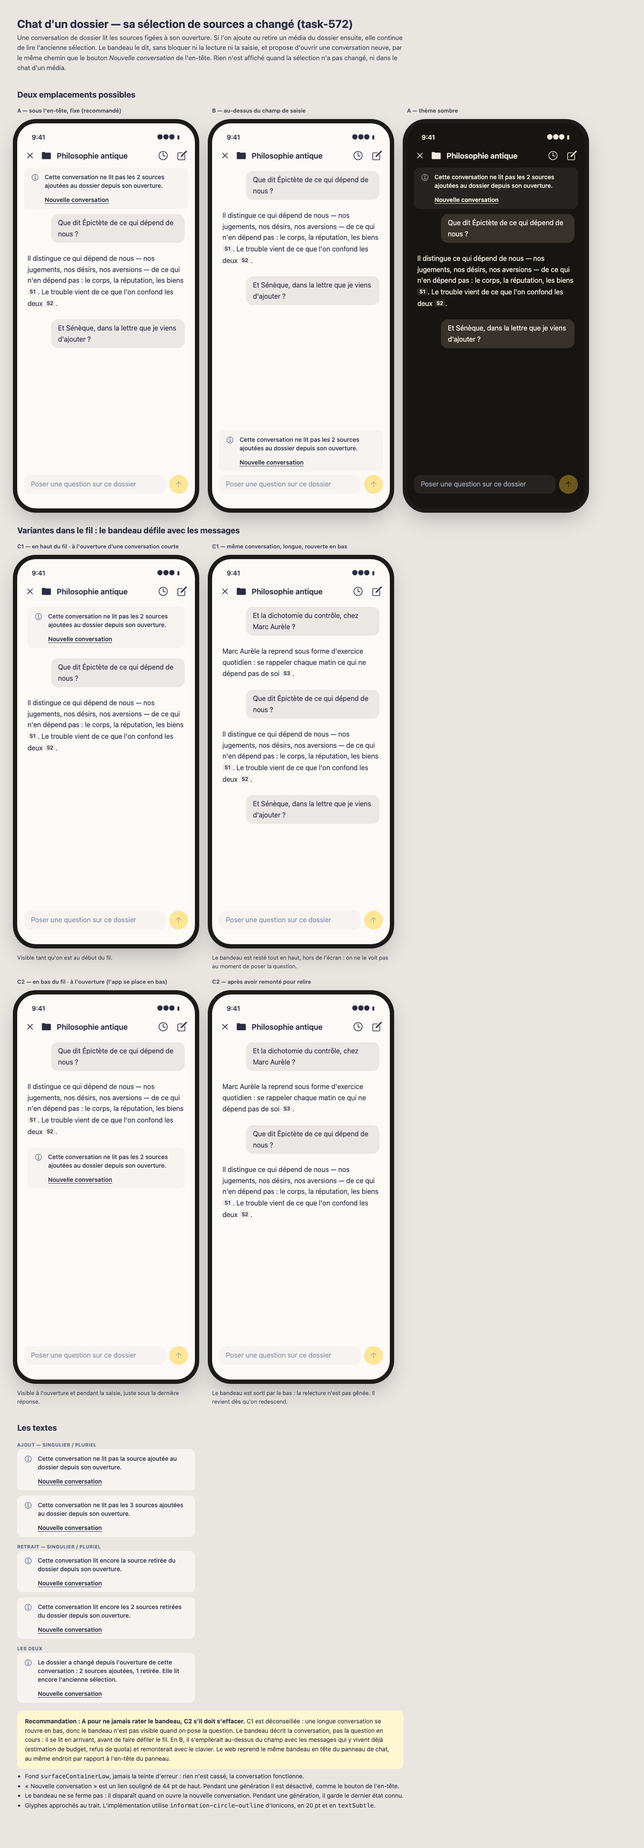
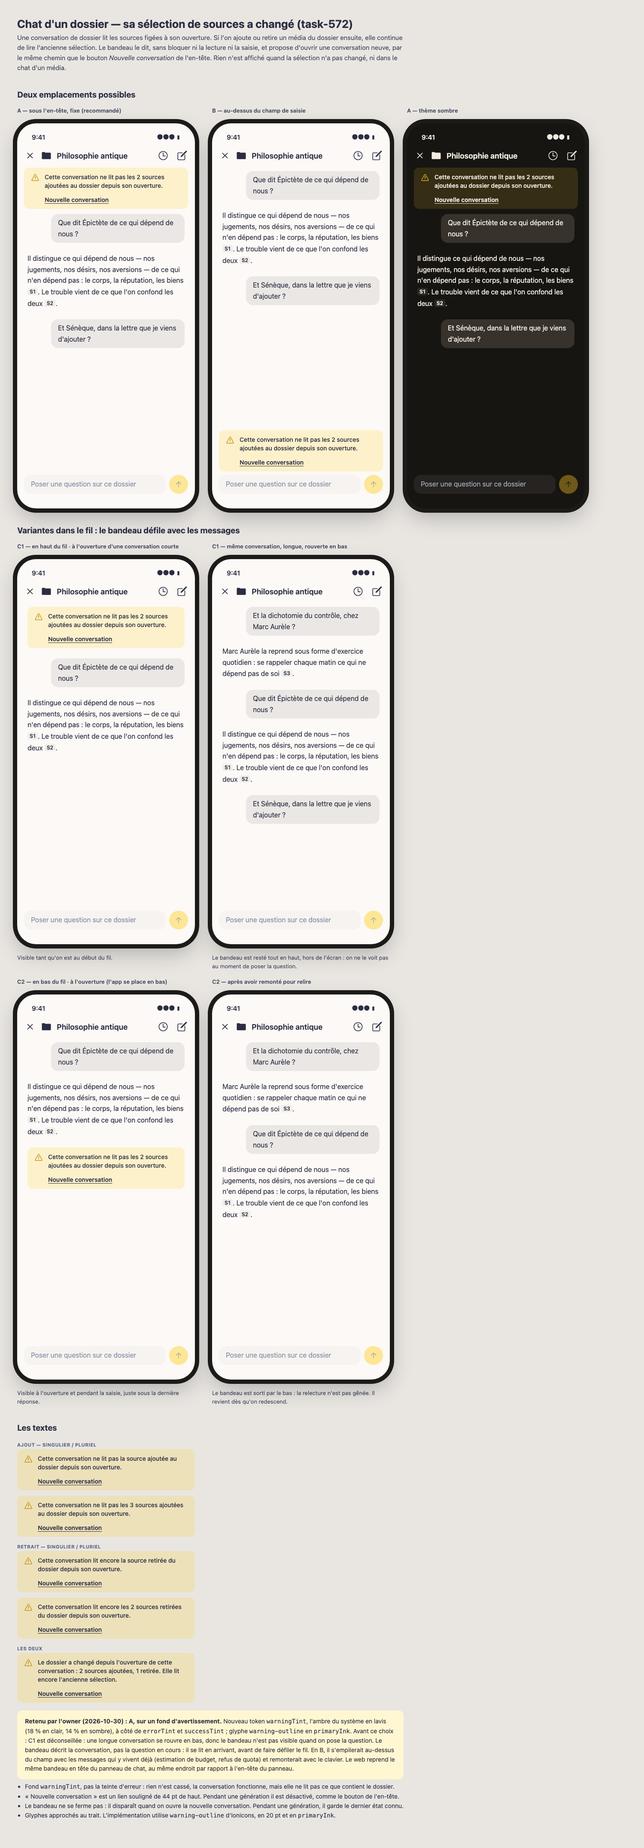
feat(chat): warn when a folder conversation no longer reads the folder as it is (task-572)
A banner under the conversation header says how many sources were added to
or removed from the folder since the conversation was opened, and offers a
new conversation by the header's own path. It reads the server's
source_drift, keeps the last value while a generation runs, and blocks
neither reading nor sending. Option A of the mockup, on a new warningTint
token (the system's amber as a wash) chosen by the owner; strings in the
eleven catalogues.

Web: done

diff --git a/mobile-design-mockups/chat_source_drift_banner/code.html b/mobile-design-mockups/chat_source_drift_banner/code.html
@@ -5,8 +5,8 @@
 <title>Chat d'un dossier — sources qui ont changé (task-572)</title>
 <style>
   /* Tokens: mobile/src/constants/theme.ts (light and dark palettes). */
-  .light { --bg:#fcf9f6; --surface:#ffffff; --low:#f7f3f0; --cont:#f1edea; --high:#ebe7e5; --text:#2b2d42; --muted:#8d99ae; --subtle:#5c6880; --primary:#ffcb05; --onprimary:#1c1b1a; --outlineV:#c8c7bd; }
-  .dark  { --bg:#171511; --surface:#211e19; --low:#262320; --cont:#2d2a25; --high:#37332c; --text:#f1ebe1; --muted:#9aa3b4; --subtle:#aeb6c4; --primary:#f0bf2a; --onprimary:#1c1b1a; --outlineV:#3d3932; }
+  .light { --bg:#fcf9f6; --surface:#ffffff; --low:#f7f3f0; --cont:#f1edea; --high:#ebe7e5; --text:#2b2d42; --muted:#8d99ae; --subtle:#5c6880; --primary:#ffcb05; --onprimary:#1c1b1a; --outlineV:#c8c7bd; --warn:rgba(255,203,5,0.18); --ink:#b88a00; }
+  .dark  { --bg:#171511; --surface:#211e19; --low:#262320; --cont:#2d2a25; --high:#37332c; --text:#f1ebe1; --muted:#9aa3b4; --subtle:#aeb6c4; --primary:#f0bf2a; --onprimary:#1c1b1a; --outlineV:#3d3932; --warn:rgba(240,191,42,0.14); --ink:#f0bf2a; }
   * { box-sizing:border-box; }
   body { margin:0; padding:40px; background:#e9e6e2; font-family:-apple-system,BlinkMacSystemFont,"SF Pro Text",Roboto,"Helvetica Neue",Arial,sans-serif; color:#2b2d42; }
   h1 { font-size:26px; margin:0 0 6px; }
@@ -31,10 +31,10 @@
   .send { width:44px; height:44px; border-radius:50%; background:var(--primary); display:flex; align-items:center; justify-content:center; opacity:.4; }
   .send svg { stroke:var(--onprimary); }
   /* The banner: one notice, neutral, never an error tint. */
-  .drift { display:flex; gap:12px; align-items:flex-start; background:var(--low); border-radius:12px; padding:12px 16px; }
+  .drift { display:flex; gap:12px; align-items:flex-start; background:var(--warn); border-radius:12px; padding:12px 16px; }
   .drift.top { margin:0 16px 4px; }
   .drift.bottom { margin:0 16px; }
-  .drift svg { flex:none; margin-top:1px; stroke:var(--subtle); }
+  .drift svg { flex:none; margin-top:1px; stroke:var(--ink); }
   .drift .body { flex:1; display:flex; flex-direction:column; gap:4px; }
   .drift .msg { font-size:14px; font-weight:500; line-height:20px; color:var(--text); }
   .drift .act { align-self:flex-start; min-height:44px; display:flex; align-items:center; margin:-4px 0 -12px; font-size:14px; font-weight:600; color:var(--text); text-decoration:underline; text-underline-offset:3px; }
@@ -52,7 +52,7 @@
   <symbol id="folder" viewBox="0 0 512 512"><path d="M440 432H72a40 40 0 01-40-40V120a40 40 0 0140-40h75.89a40 40 0 0122.19 6.72l27.84 18.56a40 40 0 0022.19 6.72H440a40 40 0 0140 40v240a40 40 0 01-40 40z" fill="currentColor" stroke="none"/></symbol>
   <symbol id="time" viewBox="0 0 512 512"><path d="M256 64C150 64 64 150 64 256s86 192 192 192 192-86 192-192S362 64 256 64z"/><path d="M256 128v144h96"/></symbol>
   <symbol id="create" viewBox="0 0 512 512"><path d="M384 224v184a40 40 0 01-40 40H104a40 40 0 01-40-40V168a40 40 0 0140-40h167.48"/><path d="M459.94 53.25a16.06 16.06 0 00-23.22-.56L424.35 65a8 8 0 000 11.31l11.34 11.32a8 8 0 0011.34 0l12.06-12c6.1-6.09 6.67-16.01.85-22.38zM399.34 90L218.82 270.2a9 9 0 00-2.31 3.93L208.16 299a3.91 3.91 0 004.86 4.86l24.85-8.35a9 9 0 003.93-2.31L422 112.66a9 9 0 000-12.66l-9.95-10a9 9 0 00-12.71 0z"/></symbol>
-  <symbol id="info" viewBox="0 0 512 512"><path d="M248 64C146.39 64 64 146.39 64 248s82.39 184 184 184 184-82.39 184-184S349.61 64 248 64z"/><path d="M220 220h32v116M208 340h88"/><path d="M248 130a26 26 0 1026 26 26 26 0 00-26-26z" fill="currentColor" stroke="none"/></symbol>
+  <symbol id="info" viewBox="0 0 512 512"><path d="M85.57 446.25h340.86a32 32 0 0028.17-47.17L284.18 82.58c-12.09-22.44-44.27-22.44-56.36 0L57.4 399.08a32 32 0 0028.17 47.17z"/><path d="M250.26 195.39l5.74 122 5.73-121.95a5.74 5.74 0 00-5.79-6h0a5.74 5.74 0 00-5.68 5.95z"/><path d="M256 397.25a20 20 0 1120-20 20 20 0 01-20 20z" fill="#b88a00" stroke="none"/></symbol>
   <symbol id="up" viewBox="0 0 512 512"><path d="M112 244l144-144 144 144M256 120v292"/></symbol>
 </svg>
 
@@ -244,12 +244,12 @@
   </div>
 </div>
 
-<div class="rec"><strong>Recommandation : A pour ne jamais rater le bandeau, C2 s'il doit s'effacer.</strong> C1 est déconseillée : une longue conversation se rouvre en bas, donc le bandeau n'est pas visible quand on pose la question. Le bandeau décrit la conversation, pas la question en cours : il se lit en arrivant, avant de faire défiler le fil. En B, il s'empilerait au-dessus du champ avec les messages qui y vivent déjà (estimation de budget, refus de quota) et remonterait avec le clavier. Le web reprend le même bandeau en tête du panneau de chat, au même endroit par rapport à l'en-tête du panneau.</div>
+<div class="rec"><strong>Retenu par l'owner (2026-10-30) : A, sur un fond d'avertissement.</strong> Nouveau token <code>warningTint</code>, l'ambre du système en lavis (18 % en clair, 14 % en sombre), à côté de <code>errorTint</code> et <code>successTint</code> ; glyphe <code>warning-outline</code> en <code>primaryInk</code>. Avant ce choix : C1 est déconseillée : une longue conversation se rouvre en bas, donc le bandeau n'est pas visible quand on pose la question. Le bandeau décrit la conversation, pas la question en cours : il se lit en arrivant, avant de faire défiler le fil. En B, il s'empilerait au-dessus du champ avec les messages qui y vivent déjà (estimation de budget, refus de quota) et remonterait avec le clavier. Le web reprend le même bandeau en tête du panneau de chat, au même endroit par rapport à l'en-tête du panneau.</div>
 <ul>
-  <li>Fond <code>surfaceContainerLow</code>, jamais la teinte d'erreur : rien n'est cassé, la conversation fonctionne.</li>
+  <li>Fond <code>warningTint</code>, pas la teinte d'erreur : rien n'est cassé, la conversation fonctionne, mais elle ne lit pas ce que contient le dossier.</li>
   <li>« Nouvelle conversation » est un lien souligné de 44 pt de haut. Pendant une génération il est désactivé, comme le bouton de l'en-tête.</li>
   <li>Le bandeau ne se ferme pas : il disparaît quand on ouvre la nouvelle conversation. Pendant une génération, il garde le dernier état connu.</li>
-  <li>Glyphes approchés au trait. L'implémentation utilise <code>information-circle-outline</code> d'Ionicons, en 20 pt et en <code>textSubtle</code>.</li>
+  <li>Glyphes approchés au trait. L'implémentation utilise <code>warning-outline</code> d'Ionicons, en 20 pt et en <code>primaryInk</code>.</li>
 </ul>
 </body>
 </html>

diff --git a/web/src/styles.css b/web/src/styles.css
@@ -7,7 +7,7 @@
   --background: #fcf9f6; --surface: #ffffff; --surface-container: #f1edea; --surface-container-high: #ebe7e5; --surface-container-low: #f7f3f0;
   --text-main: #2b2d42; --text-muted: #8d99ae; --text-subtle: #5c6880; --outline: #78776f; --outline-variant: #c8c7bd;
   --glass: rgba(252, 249, 246, 0.9);
-  --error: #ba1a1a; --on-error: #ffffff; --error-container: #ffdad6; --error-tint: rgba(186, 26, 26, 0.1); --success: #2e7d4f; --success-tint: rgba(46, 125, 79, 0.11);
+  --error: #ba1a1a; --on-error: #ffffff; --error-container: #ffdad6; --error-tint: rgba(186, 26, 26, 0.1); --success: #2e7d4f; --success-tint: rgba(46, 125, 79, 0.11); --warning-tint: rgba(255, 203, 5, 0.18);
   --highlight: #fff0b3; --short-video-container: #d6e4fd; --audio-container: #d4e9d2; --image-post-container: #f3dcf2; --article-container: #c1ebec;
   /* The AI pane's formats (task-534, mobile-design-mockups/ai_tab_notebooklm/): a tint per
      format and its ink, the amber of the sparkles (the light primary is a fill only, 1.24:1)
@@ -26,7 +26,7 @@
   --background: #171511; --surface: #211e19; --surface-container: #2d2a25; --surface-container-high: #37332c; --surface-container-low: #262320;
   --text-main: #f1ebe1; --text-muted: #9aa3b4; --text-subtle: #c6cdd9; --outline: #a8a69a; --outline-variant: #3d3932;
   --glass: rgba(33, 30, 25, 0.92);
-  --error: #ffb4ab; --on-error: #690005; --error-container: #93000a; --error-tint: rgba(255, 180, 171, 0.08); --success: #7fd3a1; --success-tint: rgba(127, 211, 161, 0.12);
+  --error: #ffb4ab; --on-error: #690005; --error-container: #93000a; --error-tint: rgba(255, 180, 171, 0.08); --success: #7fd3a1; --success-tint: rgba(127, 211, 161, 0.12); --warning-tint: rgba(240, 191, 42, 0.14);
   --highlight: #5c4a12; --short-video-container: #1a4975; --audio-container: #275029; --image-post-container: #603962; --article-container: #0b4f51;
   --primary-ink: #f0bf2a; --sheen: rgba(240, 191, 42, 0.28);
   --artifact-summary-tint: #3f331a; --artifact-summary-ink: #e2b55a; --artifact-notes-tint: #28392b; --artifact-notes-ink: #93c89a;
@@ -240,6 +240,7 @@ h1, h2, h3 { font-family: var(--font-head); margin: 0; }
 .pane-title { font-size: 15px; font-weight: 600; line-height: 1.3; min-width: 0; display: flex; flex-direction: column; justify-content: center; }
 .pane-body { flex: 1; min-height: 0; overflow-y: auto; overscroll-behavior: contain; padding: 16px 20px 24px; }
 .pane-foot { flex: none; padding: 8px 12px 12px; }
+.pane-notice { flex: none; padding: 0 12px 4px; }
 .pane.rail { align-items: center; padding: 8px 0; gap: 10px; }
 .rail-ico { color: var(--text-subtle); }
 .rail-label { writing-mode: vertical-rl; font-size: 13px; font-weight: 600; color: var(--text-subtle); }
@@ -507,6 +508,11 @@ mark { background: #fff0b3; color: #1c1b1a; border-radius: 2px; padding: 0 1px; 
 .thread .status { display: flex; align-items: center; gap: 6px; color: var(--text-subtle); }
 .thread .status.err { color: var(--error); }
 .chat-refusal { align-items: center; margin-bottom: 8px; }
+/* A folder conversation that no longer reads the folder as it is (task-572). */
+.chat-drift { display: flex; gap: 12px; align-items: flex-start; padding: 12px 16px; border-radius: var(--r-lg); background: var(--warning-tint); color: var(--text-main); font-size: 14px; font-weight: 500; line-height: 20px; }
+.chat-drift > .ico { flex: none; color: var(--primary-ink); margin-top: 1px; }
+.chat-drift-action { display: block; margin-top: 4px; padding: 0; border: 0; background: none; color: inherit; font: inherit; font-weight: 600; text-decoration: underline; text-underline-offset: 3px; cursor: pointer; }
+.chat-drift-action:disabled { opacity: 0.4; cursor: default; }
 .composer { display: flex; align-items: flex-end; gap: 8px; padding: 6px 6px 6px 14px; border-radius: var(--r-xl); background: var(--surface-container); }
 .composer:focus-within { box-shadow: 0 0 0 2px var(--primary); }
 .composer textarea { flex: 1; min-width: 0; max-height: 168px; padding: 7px 0; border: 0; outline: 0; resize: none; background: none; font-size: 15px; line-height: 1.5; color: var(--text-main); overflow-y: auto; }

diff --git a/web/src/components/icons.generated.ts b/web/src/components/icons.generated.ts
@@ -69,4 +69,5 @@ export const ICON_PATHS = {
   "text-outline": "M147 80Q152 79 156 80Q163 82 166 88Q167 90 227.5 251.0Q288 412 288 416Q288 426 279 430Q273 433 267 430Q260 428 257 421Q255 417 237 368L219 320H152H85L65 372Q46 424 43 427Q37 432 32.0 432.0Q27 432 22 427Q16 423 16 415Q16 412 77.0 249.5Q138 87 141.0 84.0Q144 81 147 80ZM206 287Q206 286 179 214L151 143V144Q97 282 97 287Q97 288 152 288Q174 288 190.0 287.5Q206 287 206 287ZM384 177Q390 176 400.0 176.0Q410 176 415 177Q447 181 469 203Q486 220 493 248Q495 255 495.5 336.0Q496 417 495 420Q494 426 487 430Q478 434 470 427Q464 423 464 410V402L458 407Q430 432 382 432Q361 432 346 425Q314 411 306 377Q301 358 306 341Q315 309 350 294Q375 283 448 280H464V269Q462 245 451 230Q433 208 401 208Q384 208 370 215Q362 219 354.5 226.5Q347 234 342.5 242.0Q338 250 334 253Q327 258 319 253Q309 248 310 238Q311 230 321 215Q345 183 384 177ZM464 319Q464 319 464 319V312H461Q434 311 393 316Q372 319 360 325Q336 336 336 359Q336 377 348 389Q356 396 367 399Q384 404 408 397Q454 385 462 335Q463 326 464 319Z",
   "time-outline": "M241 49Q256 48 269 49Q351 54 407 113Q452 161 462 228Q464 238 464.0 256.0Q464 274 462 284Q454 339 421 382Q405 405 382 421Q339 454 284 462Q274 464 256.0 464.0Q238 464 228 462Q173 454 130 421Q107 405 91 382Q58 339 50 284Q48 274 48.0 256.0Q48 238 50 228Q58 174 91 130Q107 108 130 91Q181 53 241 49ZM284 82Q278 81 261.5 80.5Q245 80 240 81Q212 84 193 92Q149 109 119.5 145.0Q90 181 82 229Q81 238 81.0 256.0Q81 274 82 283Q89 326 114.0 360.0Q139 394 178 414Q214 432 256.0 432.0Q298 432 334 414Q372 394 397.0 360.5Q422 327 430 284Q431 275 431.0 256.5Q431 238 430 229Q420 169 378 129Q338 92 284 82ZM252 113Q252 113 252 113Q258 111 263.5 114.0Q269 117 271 124Q272 127 272 191Q272 191 272 256H314Q355 256 359 258Q372 264 367 278Q364 286 355 288Q350 288 301 288Q301 288 252 288L248 286Q244 283 242 280Q242 280 240 277V202Q240 127 241 124Q243 115 252 113Z",
   "trash-outline": "M204 34Q208 33 257 33H307L313 36Q328 43 334 59Q336 64 336 80V96H386Q436 96 439 98Q444 101 447 106Q451 115 443 123Q439 128 425 128H415L405 283Q396 437 394 444Q388 469 363 478L356 480H256H156L149 478Q119 467 116 433Q115 424 106 276L97 128H87Q77 128 75 127Q68 125 65 118Q63 112 66.0 105.5Q69 99 75 97Q76 96 126 96H176V80Q176 64 178 59Q185 40 204 34ZM302 67 300 64H257Q215 64 213 65Q208 67 208 83V96H256H304V83Q304 69 302 67ZM383 132V128H256H129V133Q130 138 139 286Q146 403 147.5 421.5Q149 440 153 443Q154 445 157.5 446.5Q161 448 256.0 448.0Q351 448 355 446Q362 443 364 432Q364 425 373.0 280.5Q382 136 383 132ZM177 162Q179 161 184.0 160.5Q189 160 191 162Q197 165 199 170Q200 172 204.0 285.0Q208 398 208 402Q206 416 192 416Q180 416 177 404Q176 401 172.0 287.0Q168 173 169 170Q172 165 177 162ZM248 163Q253 159 259.5 160.5Q266 162 270 168L272 171V288V405L270 408Q265 416 256.0 416.0Q247 416 242 408L240 405V288V171L242 168Q244 165 248 163ZM320 162Q320 162 320 162Q323 160 329 161Q339 161 342 170Q342 170 344 174L340 288Q336 401 335 404Q333 410 328 414Q321 418 313.0 414.5Q305 411 304 402Q304 398 308.0 285.0Q312 172 313 170Q315 165 320 162Z",
+  "warning-outline": "M249 50Q282 46 298 75Q306 88 388.5 242.0Q471 396 472 399Q476 411 473 424Q467 452 440 460L434 462H256H78L72 460Q45 452 39 424Q36 411 40 399Q41 396 123.5 242.0Q206 88 214 75Q218 68 223 64Q234 52 249 50ZM257 82Q250 82 245 86Q244 88 161.5 240.5Q79 393 72 406Q69 413 71.0 420.0Q73 427 80 429Q82 430 256.0 430.0Q430 430 432 429Q438 427 440.5 421.0Q443 415 442 410Q441 408 359.0 255.5Q277 103 271 93Q268 87 265.0 84.5Q262 82 257 82ZM252 174Q259 173 267 177Q278 182 277 198Q277 209 274.5 264.5Q272 320 271 322Q270 327 264.5 330.5Q259 334 253 333Q245 332 242 325Q240 321 237 254Q234 195 235 191Q237 177 252 174ZM248 359Q248 359 248 359Q251 358 256 358Q264 358 270.0 363.5Q276 369 276 377Q276 384 271 390Q266 397 256.0 397.0Q246 397 241 390Q236 384 236 377Q236 365 248 359Z",
 } as const;

diff --git a/packages/core/src/i18n/ar.ts b/packages/core/src/i18n/ar.ts
@@ -715,6 +715,18 @@ export const ar: Catalog = {
   "common.itemCount.two": "عنصران",
   "common.itemCount.few": "{count} عناصر",
   "common.itemCount.many": "{count} عنصرًا",
+  "chat.drift.added.two": "هذه المحادثة لا تقرأ المصدرين اللذين أُضيفا إلى المجلد منذ بدايتها.",
+  "chat.drift.added.few": "هذه المحادثة لا تقرأ {count} مصادر أُضيفت إلى المجلد منذ بدايتها.",
+  "chat.drift.added.many": "هذه المحادثة لا تقرأ {count} مصدرًا أُضيفت إلى المجلد منذ بدايتها.",
+  "chat.drift.removed.two": "هذه المحادثة لا تزال تقرأ المصدرين اللذين أُزيلا من المجلد منذ بدايتها.",
+  "chat.drift.removed.few": "هذه المحادثة لا تزال تقرأ {count} مصادر أُزيلت من المجلد منذ بدايتها.",
+  "chat.drift.removed.many": "هذه المحادثة لا تزال تقرأ {count} مصدرًا أُزيلت من المجلد منذ بدايتها.",
+  "chat.drift.addedCount.two": "أُضيف مصدران",
+  "chat.drift.addedCount.few": "أُضيفت {count} مصادر",
+  "chat.drift.addedCount.many": "أُضيف {count} مصدرًا",
+  "chat.drift.removedCount.two": "أُزيل اثنان",
+  "chat.drift.removedCount.few": "أُزيلت {count}",
+  "chat.drift.removedCount.many": "أُزيل {count}",
   "digest.mediaCount.zero": "لا وسائط",
   "digest.mediaCount.two": "وسيطان",
   "digest.mediaCount.few": "{count} وسائط",
@@ -805,6 +817,15 @@ export const ar: Catalog = {
   "chat.conversation.discardTitle": "هل تريد تجاهل المسودة؟",
   "chat.conversation.discardBody": "سيؤدي بدء محادثة جديدة إلى تجاهل السؤال الذي لم ترسله بعد.",
   "chat.conversation.discardAction": "تجاهل وابدأ",
+  "chat.drift.added.one": "هذه المحادثة لا تقرأ المصدر الذي أُضيف إلى المجلد منذ بدايتها.",
+  "chat.drift.added.other": "هذه المحادثة لا تقرأ {count} مصدر أُضيفت إلى المجلد منذ بدايتها.",
+  "chat.drift.removed.one": "هذه المحادثة لا تزال تقرأ المصدر الذي أُزيل من المجلد منذ بدايتها.",
+  "chat.drift.removed.other": "هذه المحادثة لا تزال تقرأ {count} مصدر أُزيلت من المجلد منذ بدايتها.",
+  "chat.drift.both": "تغيّر المجلد منذ بداية هذه المحادثة: {added}، {removed}. لا تزال تقرأ الاختيار السابق.",
+  "chat.drift.addedCount.one": "أُضيف مصدر واحد",
+  "chat.drift.addedCount.other": "أُضيف {count} مصدر",
+  "chat.drift.removedCount.one": "أُزيل واحد",
+  "chat.drift.removedCount.other": "أُزيل {count}",
   "chat.a11y.answerInterrupted": "تمت مقاطعة الإجابة.",
   "chat.composer.hint": "مفتاح الإدخال يضيف سطرًا؛ زر الإرسال يرسل.",
   "chat.composer.sendA11y": "إرسال السؤال",

diff --git a/mobile/src/components/chat/ChatConversationModal.tsx b/mobile/src/components/chat/ChatConversationModal.tsx
@@ -67,6 +67,11 @@ export interface ChatConversationModalProps {
   onCancelPending: () => void;
   onRetry: (question: string) => void;
   refusal: ChatRefusal | null;
+  /**
+   * The folder changed since this conversation was opened, worded
+   * (`describeSourceDrift`, task-572); null hides the banner.
+   */
+  sourceDrift: string | null;
   onRefusalAction: (action: NonNullable<ChatRefusal["action"]>) => void;
   onNewConversation: () => void;
   sourceContent: React.ReactNode;
@@ -322,6 +327,30 @@ export function ChatConversationModal(
           </Pressable>
         </View>
 
+        {!props.historyOpen && props.sourceDrift ? (
+          <View style={styles.drift} testID="chat-conversation-source-drift">
+            <Ionicons name="warning-outline" size={20} color={Colors.primaryInk}
+              accessible={false} importantForAccessibility="no" />
+            <View style={styles.driftBody}>
+              <Text style={styles.driftText}>{props.sourceDrift}</Text>
+              <Pressable
+                style={({ pressed }) => [
+                  styles.driftAction,
+                  pressed && styles.pressed,
+                  (props.generating || props.sending) && styles.disabled,
+                ]}
+                onPress={startNew}
+                disabled={props.generating || props.sending}
+                accessibilityRole="button"
+                accessibilityState={{ disabled: props.generating || props.sending }}
+                accessibilityLabel={t("chat.conversation.newConversation")}
+              >
+                <Text style={styles.driftActionLabel}>{t("chat.conversation.newConversation")}</Text>
+              </Pressable>
+            </View>
+          </View>
+        ) : null}
+
         <View style={styles.scrollArea}>
         <ScrollView
           key={props.historyOpen ? "history" : `conversation-${props.resetKey}`}
@@ -526,4 +555,31 @@ const makeStyles = ({ colors: Colors }: Theme) =>
       backgroundColor: Colors.primary,
     },
     refusalActionLabel: { ...Typography.label, color: Colors.onPrimary },
+    // Fixed under the header, never in the thread: it describes the
+    // conversation, so it is read on arrival (task-572 mockup, option A).
+    drift: {
+      flexDirection: "row",
+      alignItems: "flex-start",
+      gap: Spacing.sm + Spacing.xs,
+      marginHorizontal: Spacing.md,
+      marginBottom: Spacing.xs,
+      paddingHorizontal: Spacing.md,
+      paddingTop: Spacing.sm + Spacing.xs,
+      backgroundColor: Colors.warningTint,
+      borderRadius: BorderRadius.lg,
+    },
+    driftBody: { flex: 1 },
+    driftText: { ...Typography.label, lineHeight: 20, color: Colors.textMain },
+    driftAction: {
+      alignSelf: "flex-start",
+      minHeight: TouchTarget.minimum,
+      justifyContent: "center",
+      borderRadius: BorderRadius.sm,
+    },
+    driftActionLabel: {
+      ...Typography.label,
+      fontWeight: "600",
+      color: Colors.textMain,
+      textDecorationLine: "underline",
+    },
   });

diff --git a/packages/core/src/i18n/hi.ts b/packages/core/src/i18n/hi.ts
@@ -758,6 +758,15 @@ export const hi: Catalog = {
   "chat.conversation.discardTitle": "ड्राफ़्ट हटाएँ?",
   "chat.conversation.discardBody": "नई बातचीत शुरू करने पर वह सवाल हट जाएगा जिसे आपने अभी भेजा नहीं है।",
   "chat.conversation.discardAction": "हटाएँ और शुरू करें",
+  "chat.drift.added.one": "यह बातचीत शुरू होने के बाद फ़ोल्डर में जोड़ा गया स्रोत नहीं पढ़ती।",
+  "chat.drift.added.other": "यह बातचीत शुरू होने के बाद फ़ोल्डर में जोड़े गए {count} स्रोत नहीं पढ़ती।",
+  "chat.drift.removed.one": "यह बातचीत शुरू होने के बाद फ़ोल्डर से हटाया गया स्रोत अब भी पढ़ती है।",
+  "chat.drift.removed.other": "यह बातचीत शुरू होने के बाद फ़ोल्डर से हटाए गए {count} स्रोत अब भी पढ़ती है।",
+  "chat.drift.both": "इस बातचीत के शुरू होने के बाद फ़ोल्डर बदल गया है: {added}, {removed}। यह अब भी पिछला चयन पढ़ती है।",
+  "chat.drift.addedCount.one": "{count} स्रोत जोड़ा गया",
+  "chat.drift.addedCount.other": "{count} स्रोत जोड़े गए",
+  "chat.drift.removedCount.one": "{count} हटाया गया",
+  "chat.drift.removedCount.other": "{count} हटाए गए",
   "chat.a11y.answerInterrupted": "जवाब बीच में रुक गया।",
   "chat.composer.hint": "एंटर नई पंक्ति जोड़ता है; भेजें बटन भेजता है।",
   "chat.composer.sendA11y": "सवाल भेजें",

diff --git a/packages/core/src/chat/sourceDrift.ts b/packages/core/src/chat/sourceDrift.ts
@@ -1,0 +1,41 @@
+/**
+ * The banner of a folder conversation whose sources changed since it was opened
+ * (task-572).
+ *
+ * The conversation keeps reading the sources frozen at its opening; the server
+ * measures how far the folder has moved from them (`source_drift`) and the app
+ * says so, offering a new conversation. Shared by the mobile and web apps.
+ */
+
+import { t, tCount } from "../i18n/runtime";
+import type { ChatConversationDetail } from "../types/chat";
+
+/**
+ * A freshly read detail, carrying over the drift of the previous read when the
+ * server did not measure it this time (a generation in flight), so the banner
+ * does not disappear while an answer is written.
+ */
+export function withKnownSourceDrift(
+  previous: ChatConversationDetail | null | undefined,
+  next: ChatConversationDetail,
+): ChatConversationDetail {
+  if (next.source_drift != null) return next;
+  if (previous?.conversation_id !== next.conversation_id || previous.source_drift == null) return next;
+  return { ...next, source_drift: previous.source_drift };
+}
+
+/** The banner's sentence, or null when the conversation reads the folder as it is. */
+export function describeSourceDrift(conversation: ChatConversationDetail | null | undefined): string | null {
+  const drift = conversation?.scope === "folder" ? conversation.source_drift : null;
+  if (!drift) return null;
+  const { added, removed } = drift;
+  if (added > 0 && removed > 0) {
+    return t("chat.drift.both", {
+      added: tCount("chat.drift.addedCount", added),
+      removed: tCount("chat.drift.removedCount", removed),
+    });
+  }
+  if (added > 0) return tCount("chat.drift.added", added);
+  if (removed > 0) return tCount("chat.drift.removed", removed);
+  return null;
+}

diff --git a/packages/core/src/i18n/ja.ts b/packages/core/src/i18n/ja.ts
@@ -732,6 +732,15 @@ export const ja: Catalog = {
   "chat.conversation.discardTitle": "下書きを破棄しますか？",
   "chat.conversation.discardBody": "新しい会話を始めると、まだ送信していない質問が破棄されます。",
   "chat.conversation.discardAction": "破棄して開始",
+  "chat.drift.added.one": "この会話は、開始後にフォルダに追加されたソースを読み込んでいません。",
+  "chat.drift.added.other": "この会話は、開始後にフォルダに追加された {count} 件のソースを読み込んでいません。",
+  "chat.drift.removed.one": "この会話は、開始後にフォルダから削除されたソースをまだ読み込んでいます。",
+  "chat.drift.removed.other": "この会話は、開始後にフォルダから削除された {count} 件のソースをまだ読み込んでいます。",
+  "chat.drift.both": "この会話の開始後にフォルダが変更されました（{added}、{removed}）。以前の選択をまだ読み込んでいます。",
+  "chat.drift.addedCount.one": "{count} 件追加",
+  "chat.drift.addedCount.other": "{count} 件追加",
+  "chat.drift.removedCount.one": "{count} 件削除",
+  "chat.drift.removedCount.other": "{count} 件削除",
   "chat.a11y.answerInterrupted": "回答が中断されました。",
   "chat.composer.hint": "改行キーで改行し、送信ボタンで送信します。",
   "chat.composer.sendA11y": "質問を送信",

diff --git a/web/src/components/chat/useChatPane.tsx b/web/src/components/chat/useChatPane.tsx
@@ -1,4 +1,5 @@
 import { describeChatRefusal } from "@media-summarizer/core/chat/refusal";
+import { describeSourceDrift } from "@media-summarizer/core/chat/sourceDrift";
 import { formatDate } from "@media-summarizer/core/i18n/runtime";
 import type { ChatConversationSummary, ChatMessage, ChatScope, ChatSource } from "@media-summarizer/core/types/chat";
 import { useEffect, useMemo, useRef, useState, type KeyboardEvent, type ReactNode } from "react";
@@ -51,6 +52,7 @@ export function useChatPane({
   const generating = state.generation !== null;
   const sending = state.phase === "sending";
   const refusal = state.error ? describeChatRefusal(state.error, scope) : null;
+  const sourceDrift = describeSourceDrift(state.conversation);
 
   const submit = async () => {
     const question = draft;
@@ -117,6 +119,18 @@ export function useChatPane({
         </button>
       </>
     ),
+    notice:
+      !historyOpen && sourceDrift ? (
+        <div className="chat-drift" role="status">
+          <Icon name="warning-outline" size={18} />
+          <div className="grow">
+            {sourceDrift}
+            <button type="button" className="chat-drift-action" onClick={startNew} disabled={generating || sending}>
+              {t("chat.conversation.newConversation")}
+            </button>
+          </div>
+        </div>
+      ) : null,
     body: historyOpen ? (
       <History
         scope={scope}

diff --git a/packages/core/src/i18n/de.ts b/packages/core/src/i18n/de.ts
@@ -867,6 +867,15 @@ export const de: Catalog = {
   "chat.conversation.discardTitle": "Entwurf verwerfen?",
   "chat.conversation.discardBody": "Eine neue Unterhaltung verwirft die Frage, die du noch nicht gesendet hast.",
   "chat.conversation.discardAction": "Verwerfen und beginnen",
+  "chat.drift.added.one": "Diese Unterhaltung liest die Quelle nicht, die seit ihrem Beginn zum Ordner hinzugefügt wurde.",
+  "chat.drift.added.other": "Diese Unterhaltung liest die {count} Quellen nicht, die seit ihrem Beginn zum Ordner hinzugefügt wurden.",
+  "chat.drift.removed.one": "Diese Unterhaltung liest noch die Quelle, die seit ihrem Beginn aus dem Ordner entfernt wurde.",
+  "chat.drift.removed.other": "Diese Unterhaltung liest noch die {count} Quellen, die seit ihrem Beginn aus dem Ordner entfernt wurden.",
+  "chat.drift.both": "Der Ordner hat sich seit Beginn dieser Unterhaltung geändert: {added}, {removed}. Sie liest noch die frühere Auswahl.",
+  "chat.drift.addedCount.one": "{count} Quelle hinzugefügt",
+  "chat.drift.addedCount.other": "{count} Quellen hinzugefügt",
+  "chat.drift.removedCount.one": "{count} entfernt",
+  "chat.drift.removedCount.other": "{count} entfernt",
   "chat.a11y.answerInterrupted": "Die Antwort wurde unterbrochen.",
   "chat.composer.hint": "Eingabe fügt eine Zeile hinzu; die Senden-Taste sendet.",
   "chat.composer.sendA11y": "Frage senden",

diff --git a/web/src/chat/useChat.ts b/web/src/chat/useChat.ts
@@ -6,6 +6,7 @@ import type {
   ChatStreamEvent,
 } from "@media-summarizer/core/types/chat";
 import { useCallback, useEffect, useRef, useState } from "react";
+import { withKnownSourceDrift } from "@media-summarizer/core/chat/sourceDrift";
 import { chatClient, type ChatStreamOpening } from "./chatClient";
 
 /**
@@ -127,14 +128,14 @@ export function useChat(scope: ChatScope, scopeId: string, sourceReady: boolean)
     const active = detail.active_generation ?? null;
     if (!active) {
       disconnect();
-      update({ conversation: detail, generation: null, streamingText: "", lastSeq: -1, phase: "idle", error: null });
+      update({ conversation: withKnownSourceDrift(latest.conversation, detail), generation: null, streamingText: "", lastSeq: -1, phase: "idle", error: null });
       return;
     }
     // Fragments may have come in while the read was pending: keep them.
     const same = latest.generation?.attempt_id === active.attempt_id && latest.generation?.turn_id === active.turn_id;
     if (!same) disconnect();
     update({
-      conversation: detail,
+      conversation: withKnownSourceDrift(latest.conversation, detail),
       generation: { turn_id: active.turn_id, turn_index: active.turn_index, attempt_id: active.attempt_id },
       streamingText: same ? latest.streamingText : "",
       lastSeq: same ? latest.lastSeq : -1,

diff --git a/packages/core/src/i18n/fr.ts b/packages/core/src/i18n/fr.ts
@@ -887,6 +887,15 @@ export const fr: Catalog = {
   "chat.conversation.discardTitle": "Abandonner le brouillon ?",
   "chat.conversation.discardBody": "Une nouvelle conversation effacera la question que vous n’avez pas envoyée.",
   "chat.conversation.discardAction": "Abandonner et commencer",
+  "chat.drift.added.one": "Cette conversation ne lit pas la source ajoutée au dossier depuis son ouverture.",
+  "chat.drift.added.other": "Cette conversation ne lit pas les {count} sources ajoutées au dossier depuis son ouverture.",
+  "chat.drift.removed.one": "Cette conversation lit encore la source retirée du dossier depuis son ouverture.",
+  "chat.drift.removed.other": "Cette conversation lit encore les {count} sources retirées du dossier depuis son ouverture.",
+  "chat.drift.both": "Le dossier a changé depuis l’ouverture de cette conversation : {added}, {removed}. Elle lit encore l’ancienne sélection.",
+  "chat.drift.addedCount.one": "{count} source ajoutée",
+  "chat.drift.addedCount.other": "{count} sources ajoutées",
+  "chat.drift.removedCount.one": "{count} retirée",
+  "chat.drift.removedCount.other": "{count} retirées",
   "chat.a11y.answerInterrupted": "La réponse a été interrompue.",
   "chat.composer.hint": "Entrée ajoute une ligne ; le bouton d'envoi envoie.",
   "chat.composer.sendA11y": "Envoyer la question",
